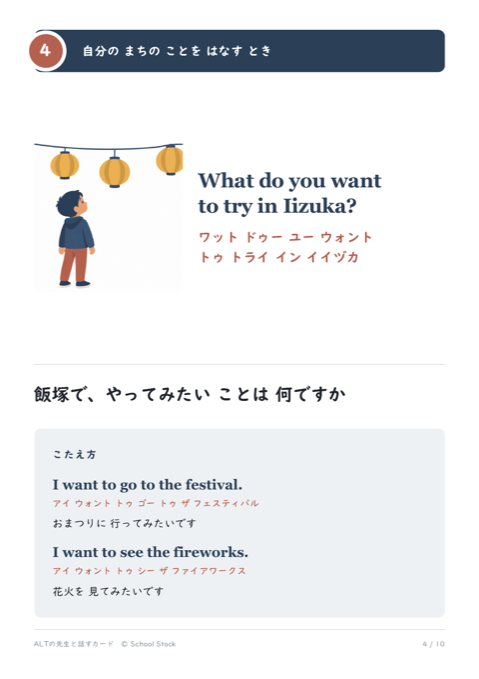
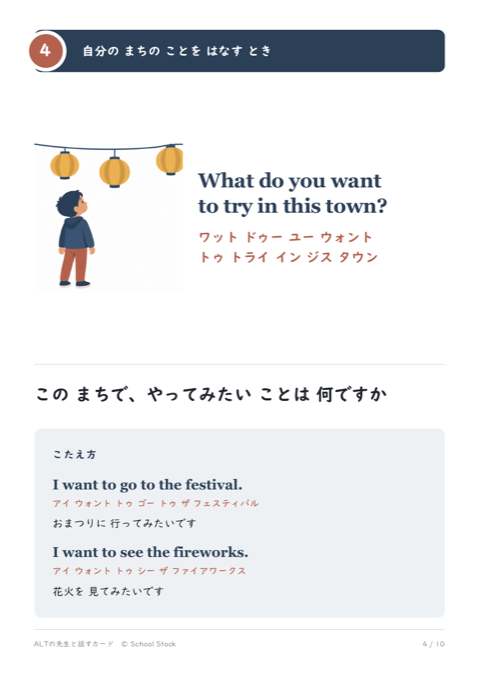
ALTの先生と話すカード：4枚目を「この まちで」版に差し替え
地名を外したので、棚の見出し・説明・PDFリンク・サムネ・棚カード画像も更新。
「学校のまちの名前に読みかえて」の但し書きは不要になったので削除。

Changed region(s): [[0.0585, 0.5567, 0.8184, 0.6186], [0.5846, 0.2784, 0.8184, 0.3402], [0.643, 0.3711, 0.7891, 0.4021]]

diff --git a/gakkyu/alt/index.html b/gakkyu/alt/index.html
@@ -165,14 +165,14 @@ a { color:var(--accent); text-decoration:none; }
         </div>
       </article>
       <article class="pc">
-        <a class="th" href="/School_Stock_files/gakkyu/alt/pdf/alt_04_iizuka-de.pdf" download>
+        <a class="th" href="/School_Stock_files/gakkyu/alt/pdf/alt_04_machi-de.pdf" download>
           <div class="thumb"><img src="thumb/04.png" width="480" height="679"
                alt="まちでやってみたいことのカードの紙面" loading="lazy"></div></a>
         <div class="pm">
           <span class="ptag">まちでやってみたいこと</span>
-          <h3>What do you want to try in Iizuka?</h3>
-          <p class="ai">自分のまちの話になる1枚です。地名の部分は、学校のまちの名前に読みかえて使えます。</p>
-          <a class="dl" href="/School_Stock_files/gakkyu/alt/pdf/alt_04_iizuka-de.pdf" download><svg viewBox="0 0 24 24" fill="none" stroke="currentColor" stroke-width="2.2"><path d="M12 3v12M7 11l5 5 5-5M4 20h16"/></svg>PDF</a>
+          <h3>What do you want to try in this town?</h3>
+          <p class="ai">自分のまちの話になる1枚です。地名は入れていないので、どの学校でもそのまま使えます。</p>
+          <a class="dl" href="/School_Stock_files/gakkyu/alt/pdf/alt_04_machi-de.pdf" download><svg viewBox="0 0 24 24" fill="none" stroke="currentColor" stroke-width="2.2"><path d="M12 3v12M7 11l5 5 5-5M4 20h16"/></svg>PDF</a>
         </div>
       </article>
       <article class="pc">
@@ -256,7 +256,6 @@ a { color:var(--accent); text-decoration:none; }
       <li>あいづちの2枚は、はったままにしておきます。次にALTの先生が来られるときもそのまま使えます。</li>
     </ol>
     <p style="margin-top:14px">カタカナは、日本語の音でいちばん近いものを当てています。正しい発音はALTの先生に言ってもらってください。<b>カタカナは、はじめの一歩のための足場です。</b></p>
-    <p style="margin-top:10px">4枚目には地名が入っています。学校のまちの名前に読みかえて使ってください。</p>
   </div>
 </div>
 
